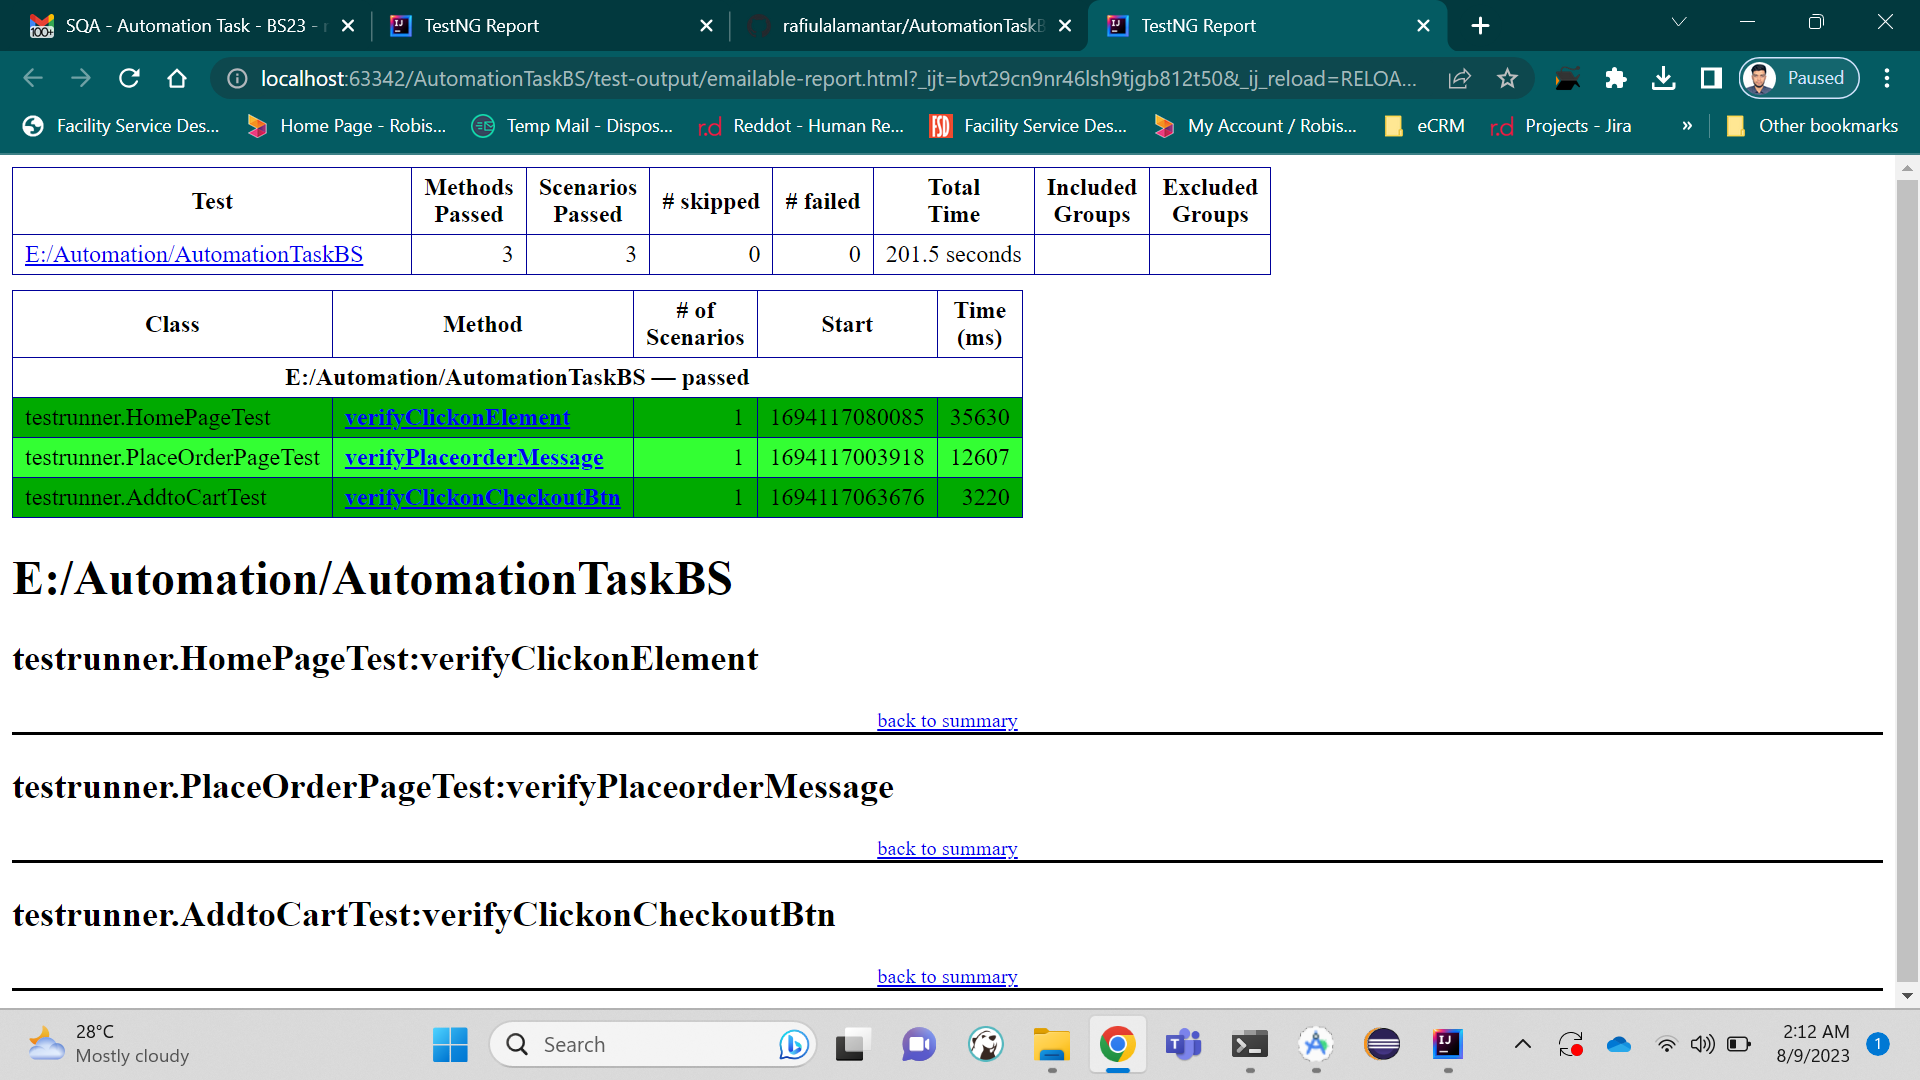
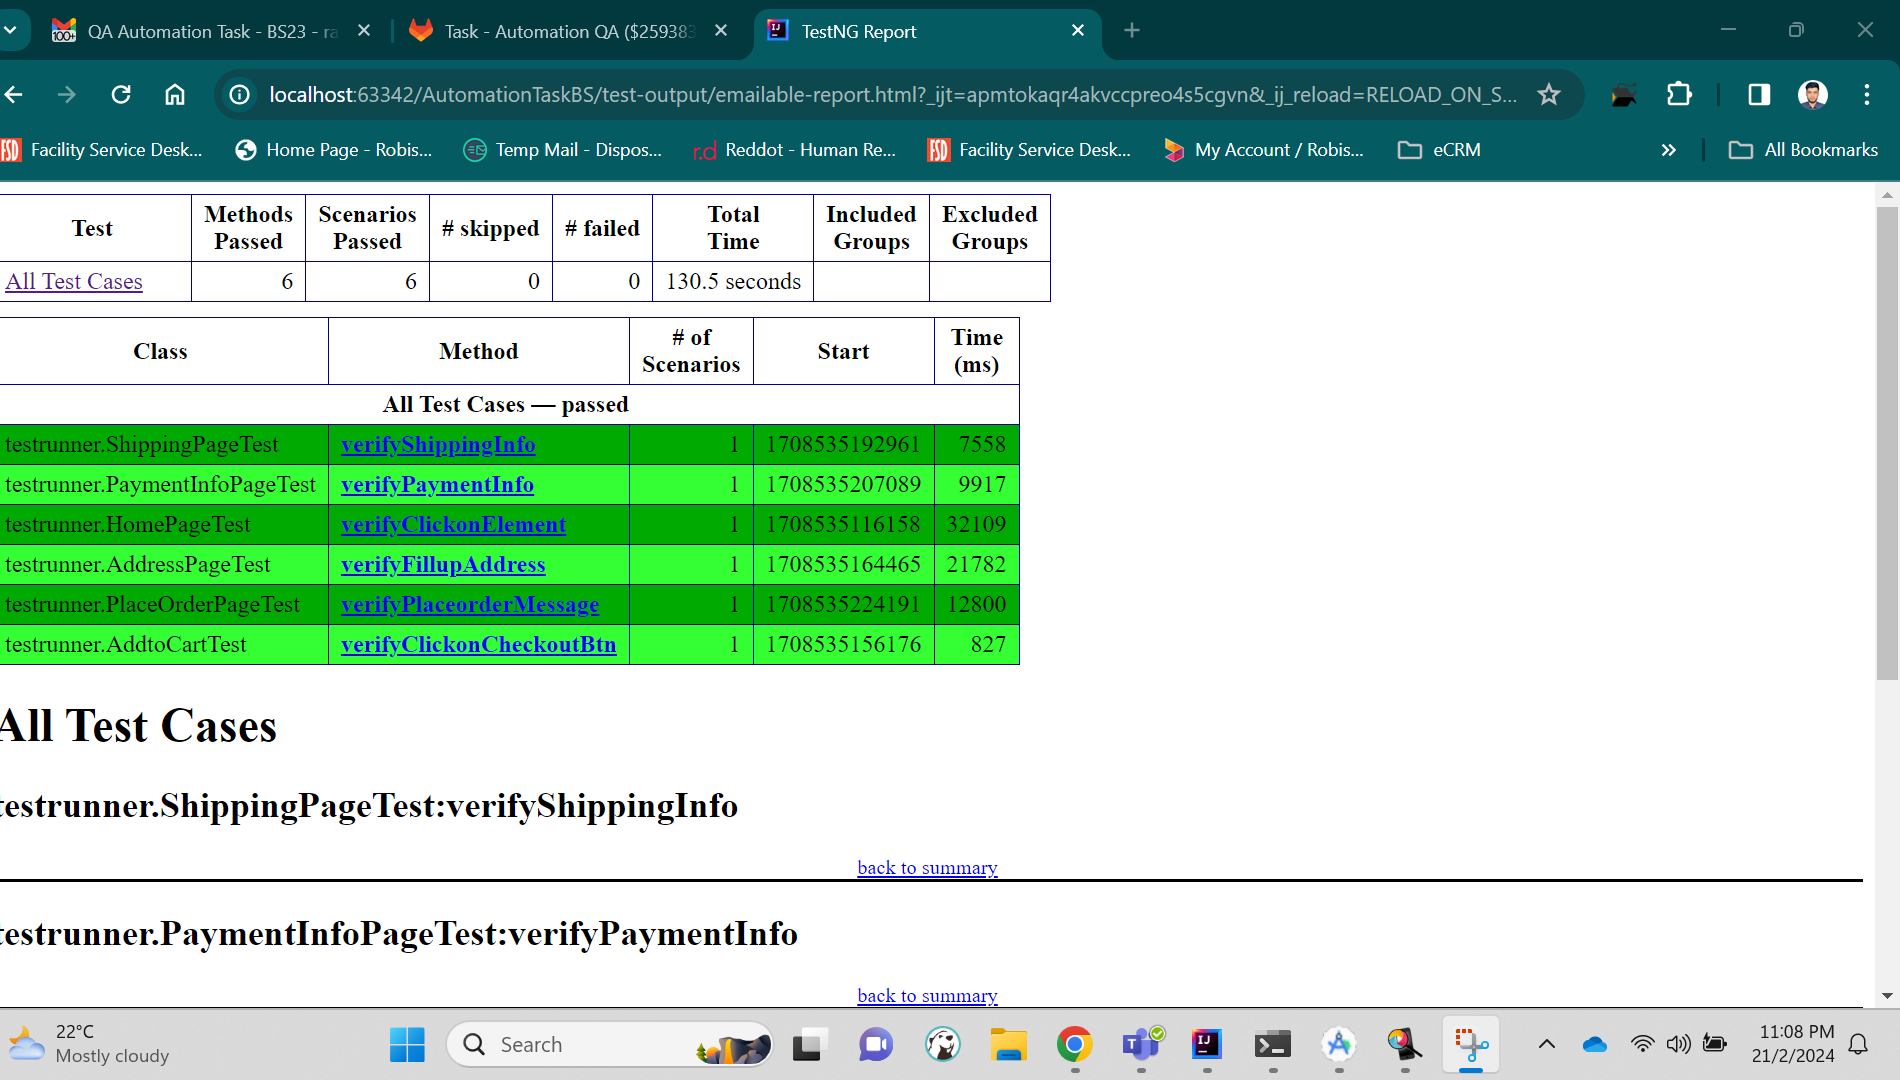
add no reset capabilities

diff --git a/test-output/emailable-report.html b/test-output/emailable-report.html
@@ -25,29 +25,29 @@ td,th {border:1px solid #009;padding:.25em .5em}
 <body>
 <table cellspacing="0" cellpadding="0" class="testOverview">
 <tr><th>Test</th><th>Methods<br/>Passed</th><th>Scenarios<br/>Passed</th><th># skipped</th><th># failed</th><th>Total<br/>Time</th><th>Included<br/>Groups</th><th>Excluded<br/>Groups</th></tr>
-<tr><td style="text-align:left;padding-right:2em"><a href="#t1">All Test Cases</a></td><td class="numi">6</td><td class="numi">6</td><td class="numi">0</td><td class="numi">0</td><td class="numi">131.1 seconds</td><td class="numi"></td><td class="numi"></td></tr>
+<tr><td style="text-align:left;padding-right:2em"><a href="#t1">All Test Cases</a></td><td class="numi">6</td><td class="numi">6</td><td class="numi">0</td><td class="numi">0</td><td class="numi">130.5 seconds</td><td class="numi"></td><td class="numi"></td></tr>
 </table>
 <table cellspacing="0" cellpadding="0" class="methodOverview" id="summary">
 <tr><th>Class</th><th>Method</th><th># of<br/>Scenarios</th><th>Start</th><th>Time<br/>(ms)</th></tr>
 <tr id="t1"><th colspan="5">All Test Cases &#8212; passed</th></tr>
-<tr class="passedodd"><td>testrunner.PlaceOrderPageTest</td><td><a href="#m1"><b>verifyPlaceorderMessage</b>  </a></td><td class="numi">1</td><td>1694446419521</td><td class="numi">7157</td></tr>
-<tr class="passedeven"><td>testrunner.ShippingPageTest</td><td><a href="#m2"><b>verifyShippingInfo</b>  </a></td><td class="numi">1</td><td>1694446388928</td><td class="numi">7422</td></tr>
-<tr class="passedodd"><td>testrunner.HomePageTest</td><td><a href="#m3"><b>verifyClickonElement</b>  </a></td><td class="numi">1</td><td>1694446307871</td><td class="numi">34038</td></tr>
-<tr class="passedeven"><td>testrunner.PaymentInfoPageTest</td><td><a href="#m4"><b>verifyPaymentInfo</b>  </a></td><td class="numi">1</td><td>1694446403002</td><td class="numi">9554</td></tr>
-<tr class="passedodd"><td>testrunner.AddtoCartTest</td><td><a href="#m5"><b>verifyClickonCheckoutBtn</b>  </a></td><td class="numi">1</td><td>1694446350175</td><td class="numi">1493</td></tr>
-<tr class="passedeven"><td>testrunner.AddressPageTest</td><td><a href="#m6"><b>verifyFillupAddress</b>  </a></td><td class="numi">1</td><td>1694446360812</td><td class="numi">20377</td></tr>
+<tr class="passedodd"><td>testrunner.ShippingPageTest</td><td><a href="#m1"><b>verifyShippingInfo</b>  </a></td><td class="numi">1</td><td>1708535192961</td><td class="numi">7558</td></tr>
+<tr class="passedeven"><td>testrunner.PaymentInfoPageTest</td><td><a href="#m2"><b>verifyPaymentInfo</b>  </a></td><td class="numi">1</td><td>1708535207089</td><td class="numi">9917</td></tr>
+<tr class="passedodd"><td>testrunner.HomePageTest</td><td><a href="#m3"><b>verifyClickonElement</b>  </a></td><td class="numi">1</td><td>1708535116158</td><td class="numi">32109</td></tr>
+<tr class="passedeven"><td>testrunner.AddressPageTest</td><td><a href="#m4"><b>verifyFillupAddress</b>  </a></td><td class="numi">1</td><td>1708535164465</td><td class="numi">21782</td></tr>
+<tr class="passedodd"><td>testrunner.PlaceOrderPageTest</td><td><a href="#m5"><b>verifyPlaceorderMessage</b>  </a></td><td class="numi">1</td><td>1708535224191</td><td class="numi">12800</td></tr>
+<tr class="passedeven"><td>testrunner.AddtoCartTest</td><td><a href="#m6"><b>verifyClickonCheckoutBtn</b>  </a></td><td class="numi">1</td><td>1708535156176</td><td class="numi">827</td></tr>
 </table>
 <h1>All Test Cases</h1>
-<h2 id="m1">testrunner.PlaceOrderPageTest:verifyPlaceorderMessage</h2>
+<h2 id="m1">testrunner.ShippingPageTest:verifyShippingInfo</h2>
 <p class="totop"><a href="#summary">back to summary</a></p>
-<h2 id="m2">testrunner.ShippingPageTest:verifyShippingInfo</h2>
+<h2 id="m2">testrunner.PaymentInfoPageTest:verifyPaymentInfo</h2>
 <p class="totop"><a href="#summary">back to summary</a></p>
 <h2 id="m3">testrunner.HomePageTest:verifyClickonElement</h2>
 <p class="totop"><a href="#summary">back to summary</a></p>
-<h2 id="m4">testrunner.PaymentInfoPageTest:verifyPaymentInfo</h2>
+<h2 id="m4">testrunner.AddressPageTest:verifyFillupAddress</h2>
 <p class="totop"><a href="#summary">back to summary</a></p>
-<h2 id="m5">testrunner.AddtoCartTest:verifyClickonCheckoutBtn</h2>
+<h2 id="m5">testrunner.PlaceOrderPageTest:verifyPlaceorderMessage</h2>
 <p class="totop"><a href="#summary">back to summary</a></p>
-<h2 id="m6">testrunner.AddressPageTest:verifyFillupAddress</h2>
+<h2 id="m6">testrunner.AddtoCartTest:verifyClickonCheckoutBtn</h2>
 <p class="totop"><a href="#summary">back to summary</a></p>
 </body></html>

diff --git a/src/main/java/base/TestBase.java b/src/main/java/base/TestBase.java
@@ -2,7 +2,6 @@ package base;
 
 import io.appium.java_client.android.AndroidDriver;
 import org.openqa.selenium.remote.DesiredCapabilities;
-import org.testng.annotations.AfterTest;
 
 import java.io.FileInputStream;
 import java.io.FileNotFoundException;
@@ -18,7 +17,7 @@ public class TestBase {
 
         try {
             prop = new Properties();
-            FileInputStream ip = new FileInputStream("E:\\Automation\\AutomationTask" +
+            FileInputStream ip = new FileInputStream("E:\\Automation\\AutomationTaskBS" +
                     "\\src\\main\\java\\config\\config.properties");
             prop.load(ip);
         } catch (FileNotFoundException e) {
@@ -39,14 +38,13 @@ public class TestBase {
         caps.setCapability("automationName","UiAutomator2");
         caps.setCapability("app","E:\\BS\\nopstationCart_4.40.apk");
         caps.setCapability("noReset",true);
-        caps.setCapability("fullReset",false);
 
         URL url = new URL("http://127.0.0.1:4723");
         driver = new AndroidDriver(url,caps);
 
     }
-    @AfterTest()
-    public void teardown(){
-        driver.quit();
-    }
+//    @AfterTest()
+//    public void teardown(){
+//        driver.quit();
+//    }
 }

diff --git a/src/test/java/testrunner/AddressPageTest.java b/src/test/java/testrunner/AddressPageTest.java
@@ -39,5 +39,6 @@ public class AddressPageTest extends TestBase {
         addressPage.fillUpAddress(prop.getProperty("firstname"), prop.getProperty("lastname"), prop.getProperty("email"), prop.getProperty("company"),
                 prop.getProperty("city"),prop.getProperty("address"),prop.getProperty("postal"));
 
+
     }
 }

diff --git a/src/main/java/pages/AddressPage.java b/src/main/java/pages/AddressPage.java
@@ -48,6 +48,7 @@ public class AddressPage extends TestBase {
         Thread.sleep(5000);
         selectstateDropdown.click();
         selectState.click();
+        Thread.sleep(2000);
         firstnameField.sendKeys(firstname);
         lastnameField.sendKeys(lastname);
         emailField.sendKeys(email);
